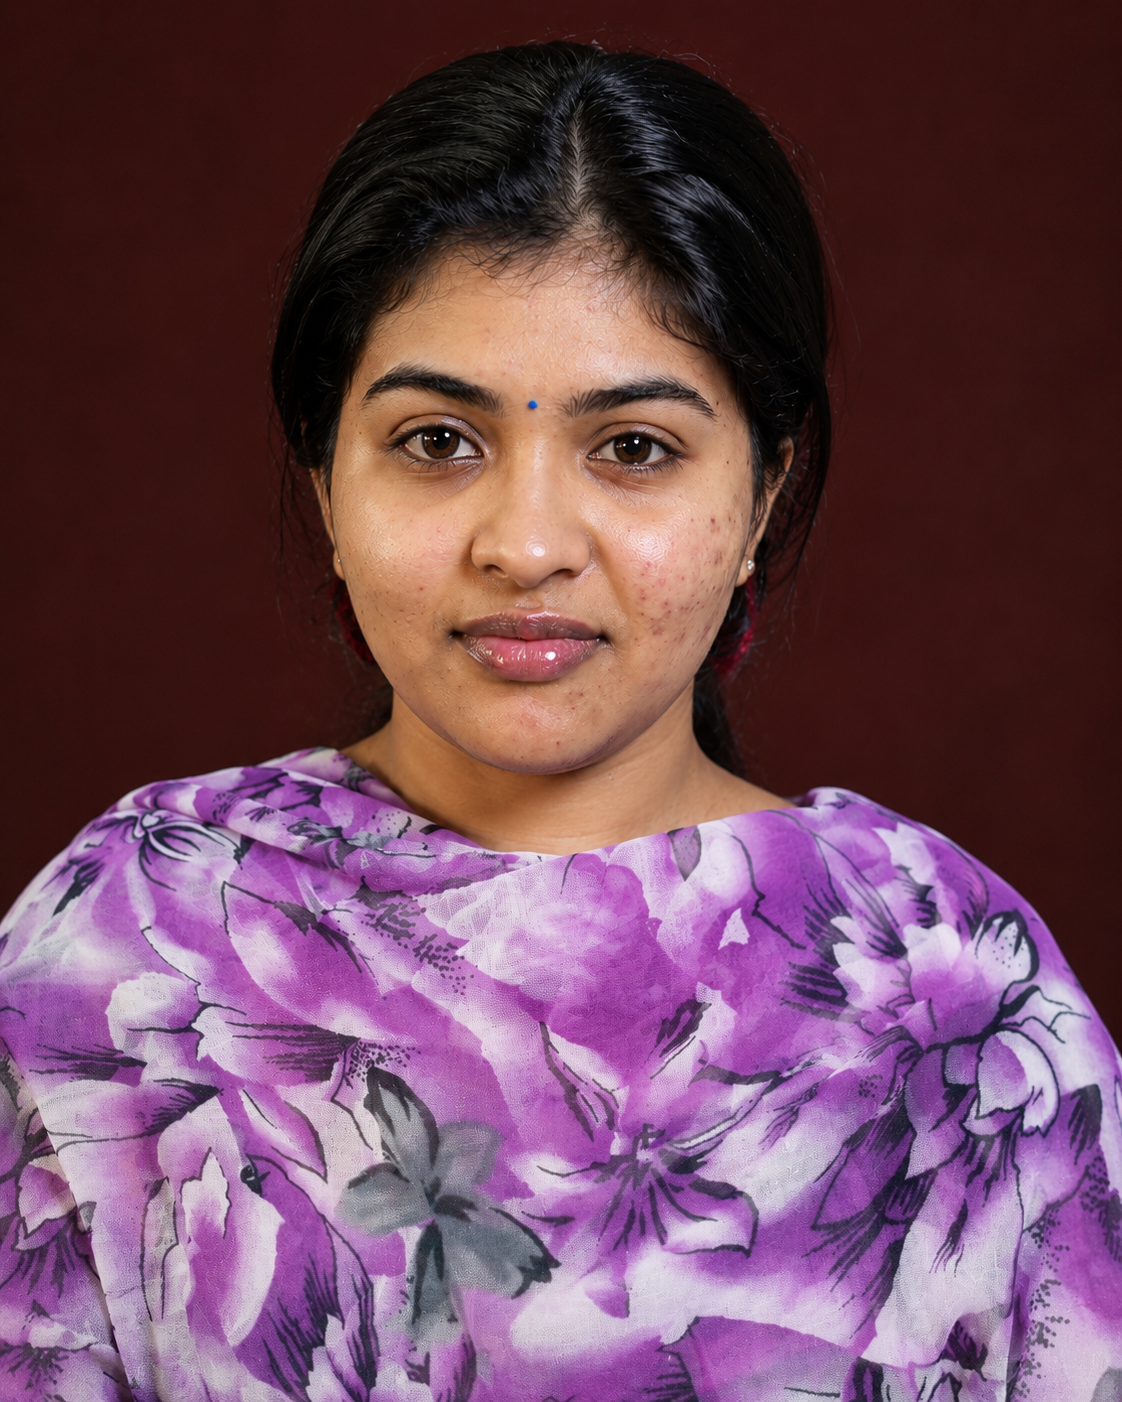
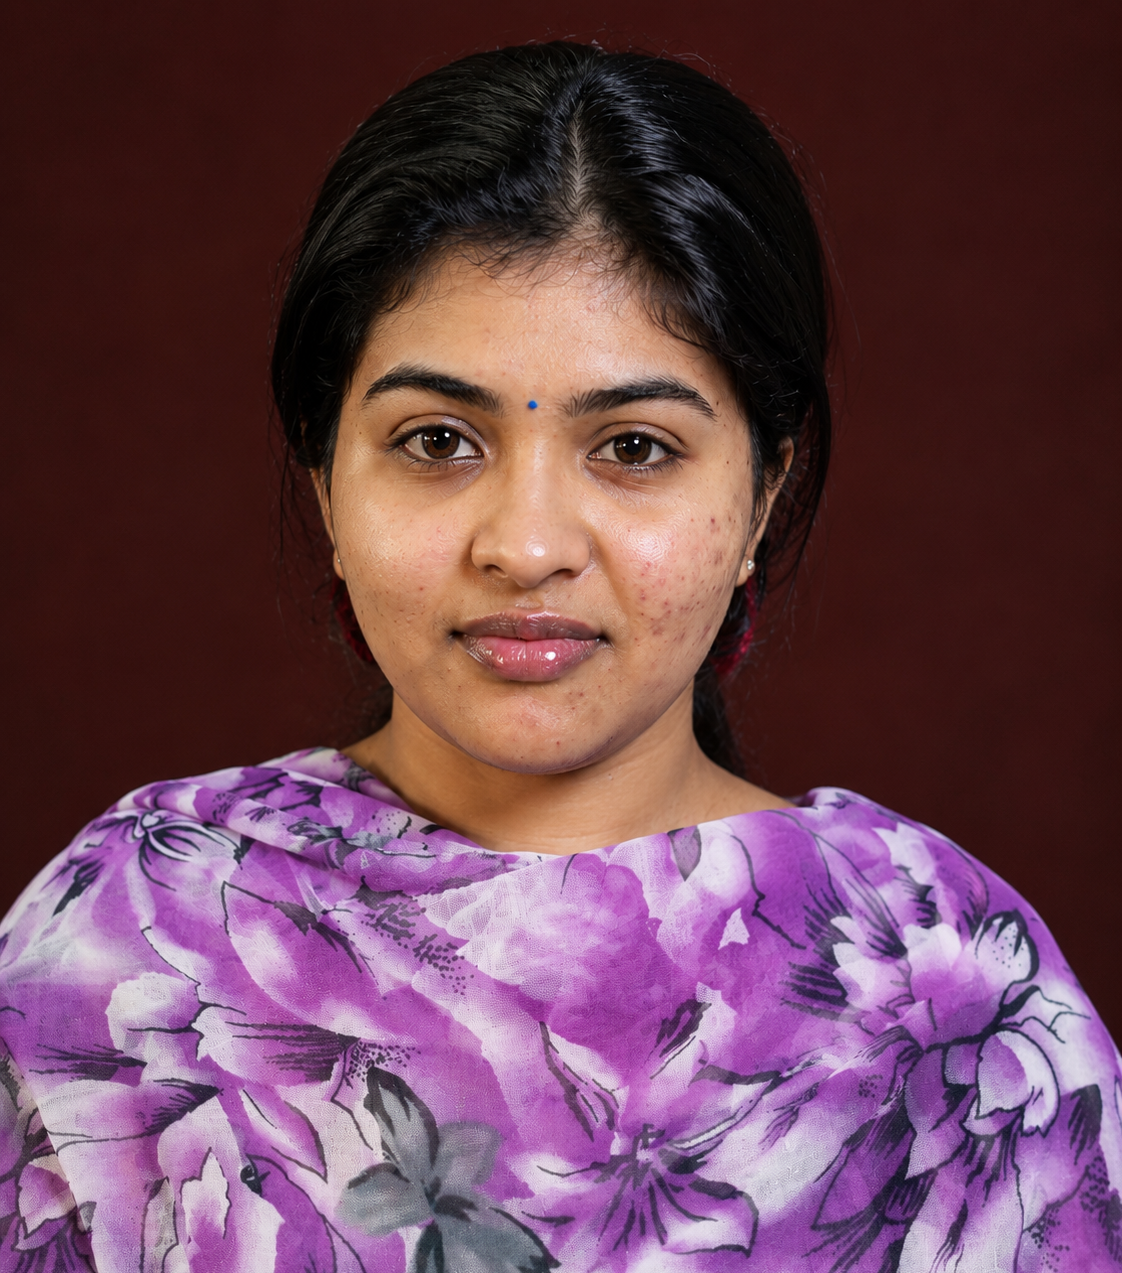
Updated website

diff --git a/assets/css/style.css b/assets/css/style.css
@@ -654,7 +654,8 @@ header.scrolled .nav-container {
 @media (max-width: 768px) {
   .page-banner {
     height: 280px;
-    padding-top: 80px;
+    padding-top: 110px !important;
+    align-items: flex-start !important;
   }
   .page-banner h1 {
     font-size: 2.8rem;
@@ -1154,6 +1155,7 @@ header.scrolled .nav-container {
   left: 0;
   width: 100%;
   height: 100%;
+  overflow: hidden;
 }
 
 .slider-img img {
@@ -1169,7 +1171,7 @@ header.scrolled .nav-container {
 
 .img-after {
   z-index: 2;
-  width: 50%; /* JS will change this */
+  width: 53%; /* JS will change this */
 }
 
 /* Let's make sure the images stack properly */
@@ -1177,7 +1179,7 @@ header.scrolled .nav-container {
   position: absolute;
   top: 0;
   left: 0;
-  width: 800px; /* Must match the max-width of container */
+  width: 960px;
   height: 550px;
   max-width: none !important;
 }
@@ -1186,7 +1188,7 @@ header.scrolled .nav-container {
   position: absolute;
   z-index: 10;
   top: 0;
-  left: 50%; /* JS will change this */
+  left: 53%; /* JS will change this */
   width: 4px;
   height: 100%;
   background: var(--color-gold);
@@ -1226,12 +1228,11 @@ header.scrolled .nav-container {
 }
 
 .label-before {
-  left: 20px;
-  z-index: 4;
+  right: 20px;
 }
 
 .label-after {
-  right: 20px;
+  left: 20px;
   z-index: 4;
 }
 
@@ -1659,6 +1660,8 @@ header.scrolled .nav-container {
 /* Luxury Booking Form */
 .booking-form-wrapper {
   padding: 50px;
+  display: flex;
+  flex-direction: column;
 }
 
 .form-title {
@@ -1676,7 +1679,20 @@ header.scrolled .nav-container {
 .booking-form {
   display: grid;
   grid-template-columns: 1fr 1fr;
+  grid-template-rows: auto auto 1fr auto;
   gap: 25px;
+  flex-grow: 1;
+}
+
+.form-group-textarea {
+  display: flex;
+  flex-direction: column;
+}
+
+.form-group-textarea textarea {
+  flex-grow: 1;
+  min-height: 140px;
+  height: 100%;
 }
 
 .form-group-full {
@@ -1731,18 +1747,51 @@ textarea.form-control {
     padding: 0 15px;
     box-sizing: border-box;
   }
+  .hours-card {
+    padding: 30px 20px !important;
+  }
+  .contact-info-cards {
+    text-align: center;
+  }
+  .contact-info-cards .section-subtitle,
+  .contact-info-cards h2 {
+    text-align: center;
+    width: 100%;
+  }
   .contact-detail-card {
-    padding: 20px;
+    flex-direction: column;
+    align-items: center;
+    text-align: center;
+    padding: 25px 20px;
     gap: 15px;
   }
   .booking-form-wrapper {
-    padding: 25px 20px;
+    padding: 30px 20px;
+    background: #FAF5F5 !important;
+    border: 1px solid rgba(153, 55, 75, 0.1) !important;
+    border-radius: 12px;
+    box-shadow: 0 15px 35px rgba(153, 55, 75, 0.05);
+  }
+  .form-title {
+    font-size: 1.8rem;
+    text-align: center;
+    margin-bottom: 5px;
+  }
+  .form-subtitle {
+    font-size: 0.85rem;
+    text-align: center;
+    margin-bottom: 25px;
   }
   .booking-form {
-    grid-template-columns: 1fr;
+    display: flex;
+    flex-direction: column;
+    gap: 20px;
   }
-  .form-group-full {
-    grid-column: span 1;
+  .booking-form .btn-fill {
+    width: 100%;
+    justify-content: center;
+    padding: 14px 20px;
+    font-size: 0.9rem;
   }
 }
 
@@ -1755,7 +1804,8 @@ textarea.form-control {
 }
 
 .map-container {
-  height: 450px;
+  height: 100%;
+  min-height: 450px;
   border: 1px solid rgba(197, 168, 128, 0.25);
   box-shadow: 0 20px 50px rgba(0,0,0,0.05);
 }
@@ -1769,10 +1819,13 @@ textarea.form-control {
 .hours-card {
   background: var(--color-light);
   color: var(--color-dark);
-  padding: 50px 40px;
+  padding: 40px;
   border-radius: 4px;
   border: 1px solid rgba(197, 168, 128, 0.3);
   box-shadow: 0 15px 45px rgba(0,0,0,0.03);
+  display: flex;
+  flex-direction: column;
+  justify-content: space-between;
 }
 
 .hours-card h3 {
@@ -1812,6 +1865,7 @@ textarea.form-control {
   }
   .map-container {
     height: 350px;
+    min-height: auto;
   }
 }
 
@@ -2864,19 +2918,19 @@ footer {
   width: 100px;
   height: 100px;
   border-radius: 50%;
-  background: var(--color-primary);
+  background: transparent;
   display: flex;
   justify-content: center;
   align-items: center;
   margin-bottom: 15px;
   transition: var(--transition-smooth);
-  border: 1px solid rgba(153, 55, 75, 0.1);
-  box-shadow: 0 8px 20px rgba(153, 55, 75, 0.15);
+  border: 2px solid var(--color-primary);
+  box-shadow: 0 4px 10px rgba(153, 55, 75, 0.05);
 }
 
 .category-icon-wrapper i {
   font-size: 2rem;
-  color: #FAF5F5;
+  color: var(--color-primary);
   transition: var(--transition-smooth);
 }
 
@@ -2888,14 +2942,14 @@ footer {
 }
 
 .category-circle-item:hover .category-icon-wrapper {
-  background: var(--color-blush-soft);
+  background: var(--color-primary);
   transform: translateY(-8px);
-  box-shadow: 0 12px 25px rgba(153, 55, 75, 0.1);
-  border-color: rgba(153, 55, 75, 0.2);
+  box-shadow: 0 12px 25px rgba(153, 55, 75, 0.2);
+  border-color: var(--color-primary);
 }
 
 .category-circle-item:hover .category-icon-wrapper i {
-  color: var(--color-primary);
+  color: #FAF5F5;
 }
 
 @media (max-width: 991px) {

diff --git a/contact.html b/contact.html
@@ -61,7 +61,7 @@
   </section>
 
   <!-- Contact Details and Form Section -->
-  <section class="section-padding" id="contact-form">
+  <section class="section-padding" id="contact-form" style="padding-bottom: 30px;">
     <div class="container">
       <div class="contact-wrapper">
         
@@ -142,7 +142,7 @@
               </select>
             </div>
 
-            <div class="form-group form-group-full">
+            <div class="form-group form-group-full form-group-textarea">
               <label for="message">Inquiry Notes / Date preference</label>
               <textarea id="message" class="form-control" placeholder="Specify any preferences or special events date details..."></textarea>
             </div>
@@ -210,7 +210,7 @@
     </div>
   </section>
   <!-- Testimonials Section -->
-  <section class="section-padding home-testimonials-section">
+  <section class="section-padding home-testimonials-section" style="padding-top: 40px;">
     <div class="container">
       <div class="section-header reveal-up">
         <h2 class="section-title">What Our Clients Say</h2>

diff --git a/bridal.html b/bridal.html
@@ -121,12 +121,12 @@
       <!-- Slider Widget -->
       <div class="slider-container arch-frame reveal-up">
         <div class="slider-img img-before">
-          <img src="assets/images/ChatGPT Image Jul 18, 2026, 11_52_11 PM.png" alt="Bridal Transformation Before">
-          <span class="slider-label label-before">Natural</span>
+          <img src="assets/images/Bridal/bridal_after_aligned.png" alt="Bridal Transformation After">
+          <span class="slider-label label-before">Signature Glow</span>
         </div>
         <div class="slider-img img-after">
-          <img src="assets/images/Bridal/WhatsApp Image 2026-07-10 at 6.26.39 PM.jpeg" class="slider-img-after-img" alt="Bridal Transformation After">
-          <span class="slider-label label-after">Signature Glow</span>
+          <img src="assets/images/Bridal/bridal_before_aligned.png" class="slider-img-after-img" alt="Bridal Transformation Before">
+          <span class="slider-label label-after">Natural</span>
         </div>
         <div class="slider-handle">
           <div class="slider-button">

diff --git a/assets/js/main.js b/assets/js/main.js
@@ -285,7 +285,7 @@ document.addEventListener('DOMContentLoaded', () => {
 
     const updateSliderWidth = () => {
       const rect = sliderContainer.getBoundingClientRect();
-      afterImgTag.style.width = `${rect.width}px`;
+      afterImgTag.style.width = `${rect.width * 1.2}px`;
     };
     
     // Initialize image tag width
